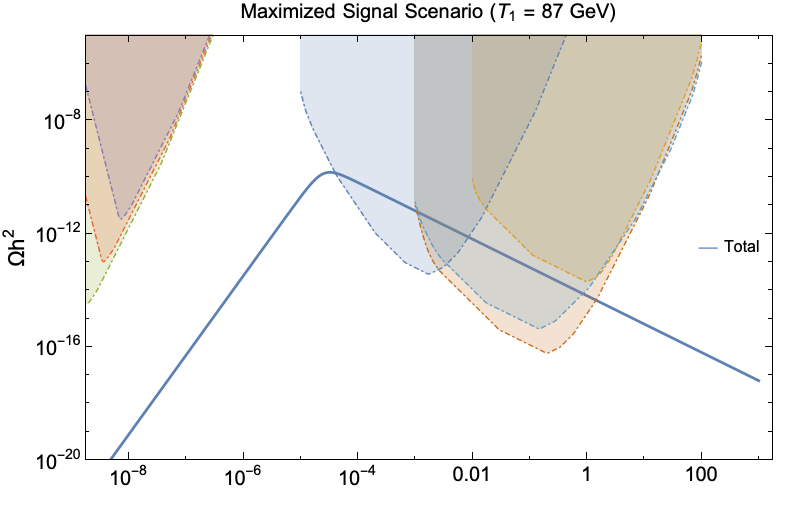
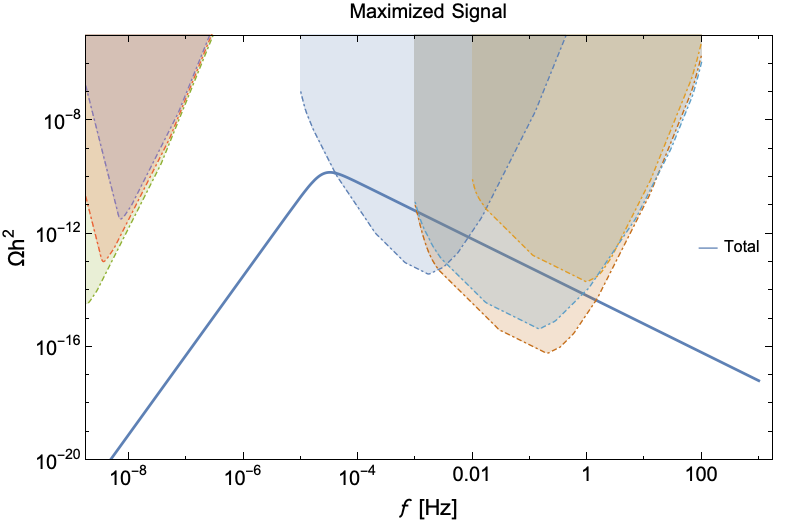
new plots

Changed region(s): [[0.2812, 0.0, 0.7812, 0.0613], [0.5, 0.9502, 0.5938, 1.0]]

diff --git a/gwnnDraft02.tex b/gwnnDraft02.tex
@@ -484,7 +484,7 @@ We assume that the parameters of the SFOPT do not differ between sectors: the re
 \begin{figure}[h!]
 \centering
 \includegraphics[scale=.3]{Nnatral.png} 
-\caption{ Gravitational wave power spectrum for standard $N$naturalness using the scalar reheaton model of section~\ref{sec:reheat}. The curve corresponding to the sum of the sectors is approximately equal to the $i=1$ curve. All contributions are assumed to be purely from bubble collisions $\Omega_{\phi}$, with $\beta/H  = 10$.  The shaded curves are the power law noise curves~\cite{PhysRevD.88.124032} calculated from expected sensitivity curves for space-based interferometers and pulsar timing arrays as described in Section~\ref{sec:detection}; Lisa~\citep{Audley:2017drz} (blue), DECIGO~\citep{10.1093/ptep/pty078} (light blue), BBO~\citep{PhysRevD.72.083005} (red), SKA~\cite{Janssen:2014dka} 5-year (purple), SKA 10-year (orange), SKA 20-year (green). }
+\caption{ Gravitational wave spectral energy density for standard $N$naturalness using the scalar reheaton model of section~\ref{sec:reheat}. The curve corresponding to the sum of the sectors is approximately equal to the $i=1$ curve. All contributions are assumed to be purely from bubble collisions $\Omega_{\phi}$, with $\beta/H  = 10$.  The shaded curves are the power law noise curves~\cite{PhysRevD.88.124032} calculated from expected sensitivity curves for space-based interferometers and pulsar timing arrays as described in Section~\ref{sec:detection}; Lisa~\citep{Audley:2017drz} (blue), DECIGO~\citep{10.1093/ptep/pty078} (light blue), BBO~\citep{PhysRevD.72.083005} (red), SKA~\cite{Janssen:2014dka} 5-year (purple), SKA 10-year (orange), SKA 20-year (green). }
 \label{fig::Nnatural}
 \end{figure}
 Applying this to the standard reheating scenario of $N$natrualness, introduced in~\ref{sec:reheat}, we get GW signals as seen in Fig.~\ref{fig::Nnatural}. Plotted are the individual contributions to the signal from each phase transitioned sector, as well as the coherent sum of all sectors. Future GW interferometers and pulsar timing array sensitivity curves are shown in comparison to the signal. The sensitivity curves are interpreted as the region of possible detection if intersected with the GW signal, more detail in the construction of these curves is given in Section~\ref{sec:detection}. Notice that the total signal is dominated by the first sectors contribution. This is caused by the quartic temperature ratio suppression in Eq.~(\ref{eq:alpha}) and the large temperature gaps between adjacent sectors. Such a suppression leads to standard $N$natrualness evading future detector thresholds by a few orders of magnitude in units of energy density. 
@@ -575,7 +575,7 @@ The frequency dependence in Eq.~(\ref{eqn::spectralshape}) takes the form of $f/
 \includegraphics[width=.45\textwidth]{energydensity.png} 
 \end{minipage}
 \hfill
-\caption{ Gravitational wave power spectrum for various models. The top row consists of two models with only two hidden sectors undergoing SFOPT at differing temperatures. The bottom left (right) are examples of exotic sectors, discussed in section V, with sectors reheated at $T \sim 0.25\,T_{SM}$ ($T \sim 0.17\,T_{SM}$). All contributions are assumed to be purely from bubble collisions $\Omega_{\phi}$, with $\beta/H  = 10$.  The shaded curves are the same as Fig.~\ref{fig::Nnatural}.   }
+\caption{ Gravitational wave spectral energy density for the various scenarios found in Tab.~(\ref{tab:cases}).  All contributions are assumed to be purely from runaway bubble collisions $\Omega_{\phi}$, with $\beta/H  = 10$.  The shaded curves are the same as Fig.~\ref{fig::Nnatural}.   }
 \label{fig:Haa}
 \end{figure*}
 
